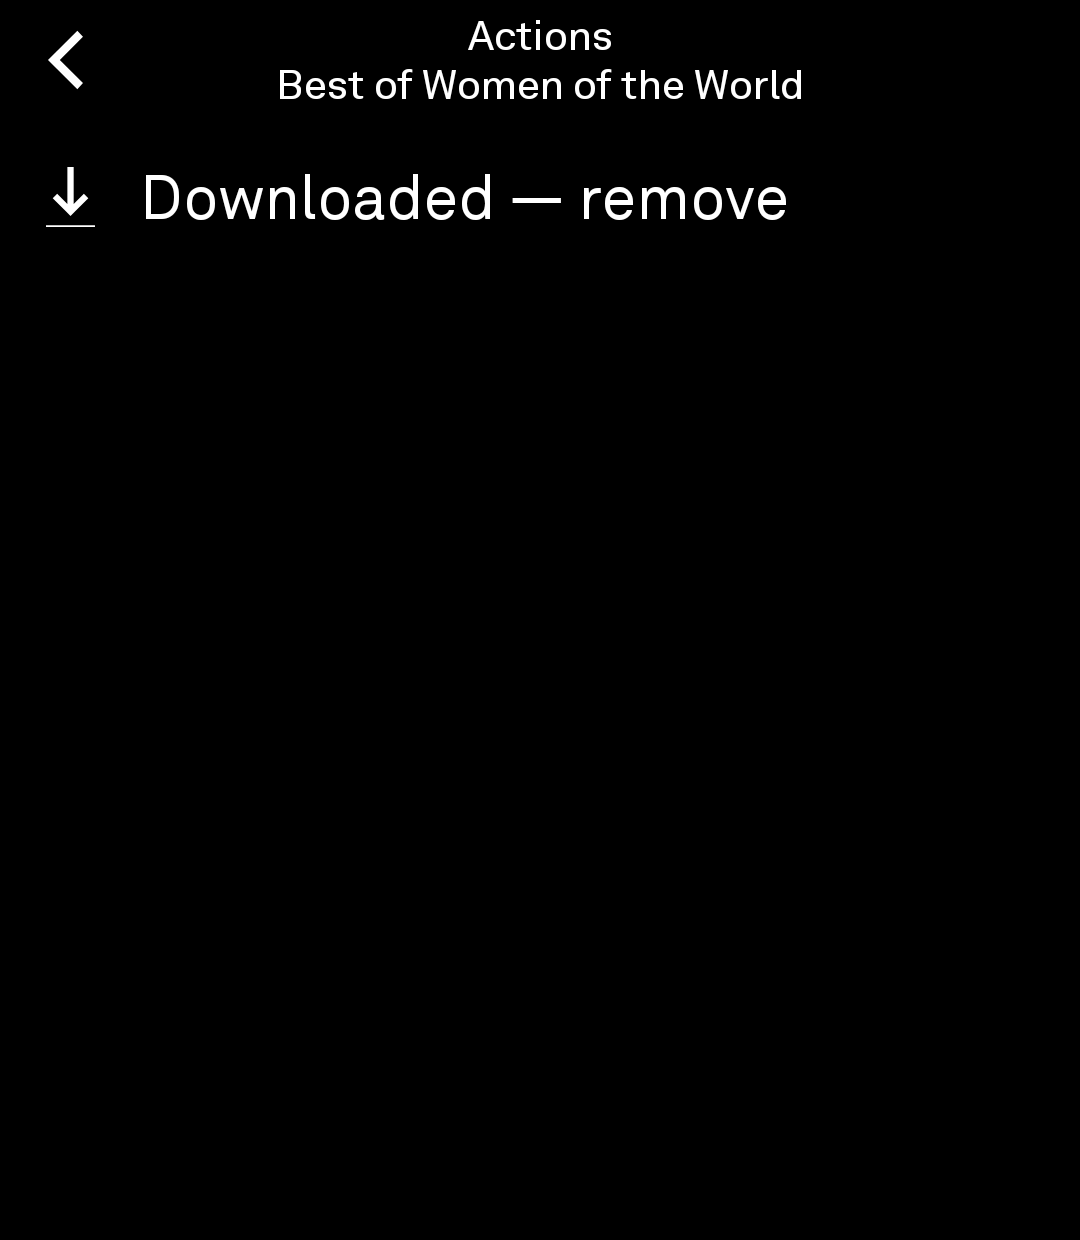
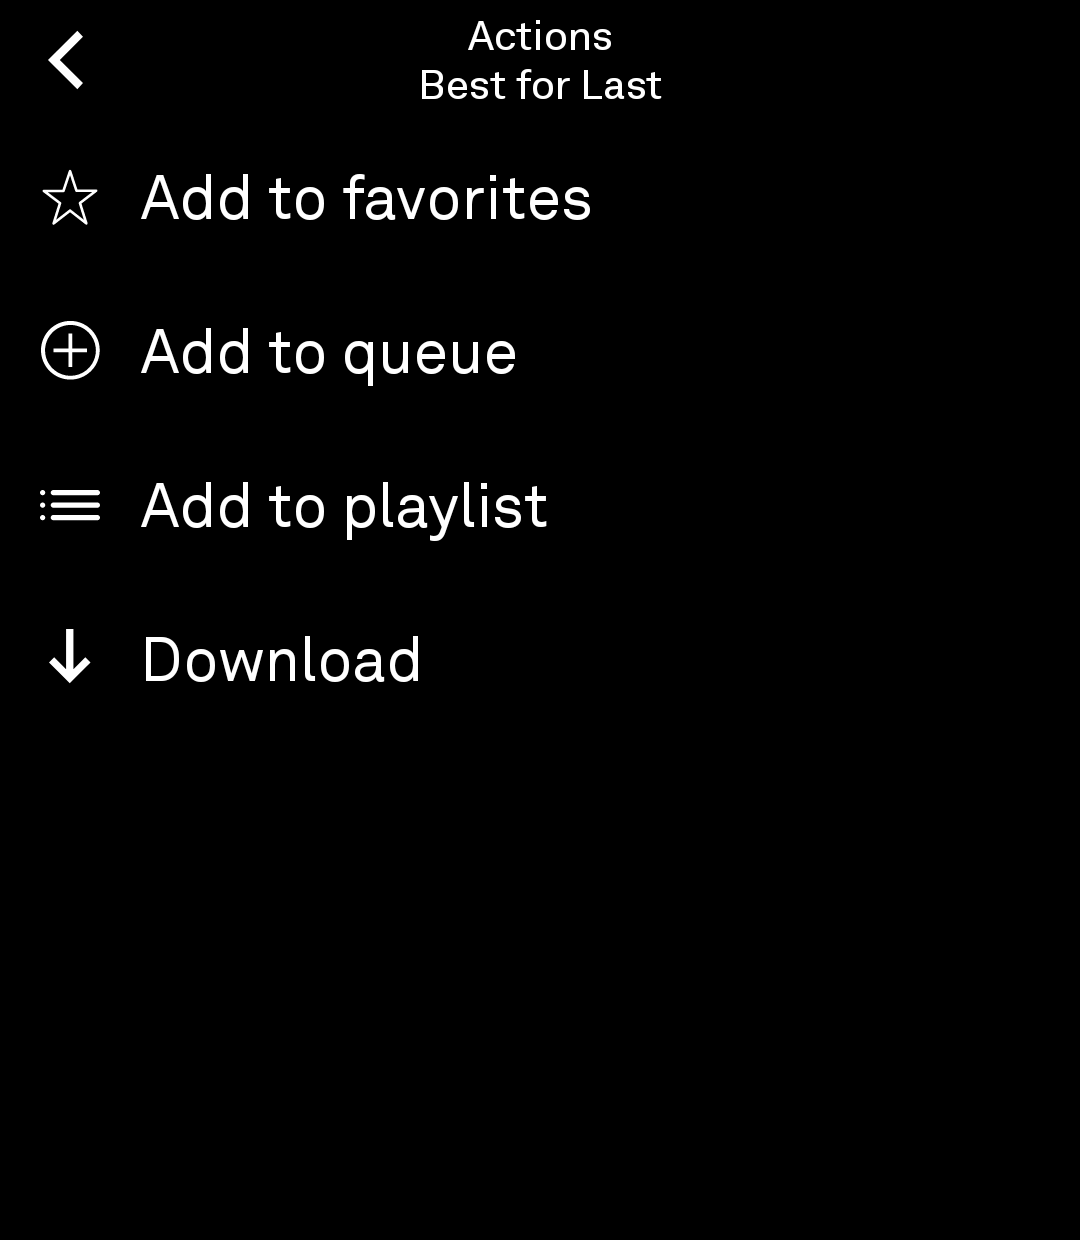
Fix download/sync progress not showing live while the app is in the foreground
Both background @LightJob handlers (downloadTrack, syncPendingMutations)
built their own fresh MusicPlusDatabase instance via
MusicPlusDatabase.create(lightContext) instead of reusing the app's own.
Room's Flow invalidation is tracked per database *instance*, not per
underlying file, so a write through a second instance never notified Flows
the app's already-open instance was serving — every status row these jobs
wrote was correct on disk, but the UI (the download action menu's "tap to
cancel" -> "Downloaded" transition, a synced favorite's "still syncing"
indicator) never advanced until the screen was closed and reopened to
re-query fresh.

Fixed by going through AppGraph.from(lightContext) instead, the same
memoized per-process singleton every screen already calls — this reuses
the app's live database instance whenever the process is actually alive to
observe it, and still builds a fresh one exactly as before on a
cold-process WorkManager run. Also let syncPendingMutations reuse
AppGraph's already-wired libraryRepository/playlistRepository/
syncQueueRepository instead of reconstructing them from raw DAOs.

Found while verifying the new playlist download feature: downloading
completed correctly per a direct DB query, but the action menu stayed on
"Downloading" until the screen was reopened. Confirmed this was the only
other place in the app doing the same thing (the two @LightJob handlers
are the only ones that exist). Verified fixed on-device after the change:
[…]

diff --git a/src/main/kotlin/com/musicplus/app/data/SyncQueueRepository.kt b/src/main/kotlin/com/musicplus/app/data/SyncQueueRepository.kt
@@ -225,36 +225,36 @@ class SyncQueueRepository(
 }
 
 /**
- * The actual sync job — self-contained (builds its own DB/network clients rather
- * than reusing app-process singletons), same convention as DownloadRepository's
- * job, since WorkManager can run this in a fresh process with no warm state.
- * Runs on a periodic schedule (see AppGraph) as the background-app/process-killed
- * backstop, plus an opportunistic one-shot enqueue on every observed reconnect —
- * either way it lands here.
+ * The actual sync job. Runs on a periodic schedule (see AppGraph) as the
+ * background-app/process-killed backstop, plus an opportunistic one-shot
+ * enqueue on every observed reconnect — either way it lands here.
+ *
+ * Goes through `AppGraph.from(lightContext)` rather than building its own
+ * `MusicPlusDatabase`/repositories from scratch — same fix, same reason as
+ * `DownloadRepository`'s job (see its doc): a second `Room` instance against
+ * the same file doesn't notify the app's own live Flows when this job writes
+ * through it, so a synced favorite/playlist edit's "still syncing" indicator
+ * only ever cleared after the screen was reopened, never live. `AppGraph.from`
+ * is a memoized per-process singleton, so this transparently reuses the app's
+ * already-open instance when the process is alive to observe it, and builds
+ * a fresh one exactly as before on a cold-process WorkManager run.
  */
 @LightJob(SyncQueueRepository.JOB_KEY)
 val syncPendingMutations: LightJobHandler = handler@{ lightContext, _ ->
     AppLogger.d("SyncQueueJob", "starting")
-    val serverConfigRepository = ServerConfigRepository(lightContext.dataStore)
+    val graph = AppGraph.from(lightContext)
     // Nothing configured at all — not just "unreachable right now" — so there's
     // genuinely nowhere for a queued mutation to ever sync to.
-    if (serverConfigRepository.serverConfig.first() == null) {
+    if (graph.serverConfigRepository.serverConfig.first() == null) {
         AppLogger.d("SyncQueueJob", "no server configured, exiting")
         return@handler LightJobResult.Success()
     }
 
-    val db = MusicPlusDatabase.create(lightContext)
-    val count = db.pendingMutationDao().observeCount().first()
+    val count = graph.database.pendingMutationDao().observeCount().first()
     AppLogger.d("SyncQueueJob", "pending count = $count")
     if (count == 0) return@handler LightJobResult.Success()
 
-    val apiHolder = SubsonicApiHolder(serverConfigRepository)
-    val connectivity = lightContext.connectivity
-    val libraryRepository = LibraryRepository(apiHolder, db.artistDao(), db.albumDao(), db.trackDao(), connectivity)
-    val playlistRepository = PlaylistRepository(apiHolder, db.playlistDao(), db.trackDao(), connectivity)
-    val syncQueueRepository = SyncQueueRepository(db.pendingMutationDao(), libraryRepository, playlistRepository)
-
-    if (syncQueueRepository.drainQueue()) LightJobResult.Success() else LightJobResult.Retry
+    if (graph.syncQueueRepository.drainQueue()) LightJobResult.Success() else LightJobResult.Retry
 }
 
 /** Registers the periodic backstop schedule — see AppGraph.build(). The opportunistic reconnect-triggered one-shot (also wired there) is what makes this feel near-instant in the common case; this is just the floor for when the app isn't in foreground to observe that. */

diff --git a/src/main/kotlin/com/musicplus/app/data/DownloadRepository.kt b/src/main/kotlin/com/musicplus/app/data/DownloadRepository.kt
@@ -66,9 +66,12 @@ class DownloadRepository(
  * top-level declaration, not nested in an `object` (an earlier draft nested it in
  * `object DownloadJobs`, which the processor would not have discovered).
  *
- * The job is self-contained on purpose (builds its own DB/network clients rather
- * than reusing app-process singletons) since WorkManager can run it in a fresh
- * process with none of the app's in-memory state warm.
+ * Builds its own network client rather than reusing `AppGraph`'s `apiHolder` —
+ * WorkManager can run this in a fresh process with none of the app's in-memory
+ * state warm, so it can't assume one exists. The database is the one exception
+ * (see the `AppGraph.from(...)` call below): reusing the app's singleton when
+ * the process IS already alive is what makes download progress actually show
+ * up live instead of only after the screen is reopened.
  */
 @LightJob(DownloadRepository.JOB_KEY)
 val downloadTrack: LightJobHandler = handler@{ lightContext, input ->
@@ -92,7 +95,20 @@ val downloadTrack: LightJobHandler = handler@{ lightContext, input ->
             return@handler LightJobResult.Error() // not configured — retrying won't help
         }
 
-        val db = MusicPlusDatabase.create(lightContext)
+        // AppGraph.from(...), not MusicPlusDatabase.create(...) directly — the
+        // latter builds a brand-new Room instance every time, and Room's Flow
+        // invalidation is tracked per-*instance*, not per underlying file: a
+        // write through a second instance never notifies Flows the app's own
+        // (already-open) instance is serving, so every download-status row
+        // this job wrote was correct on disk but the in-progress action menu
+        // never advanced past "Downloading" until the screen was reopened and
+        // re-queried fresh. Confirmed on-device, 2026-09-18. AppGraph.from is
+        // the same memoized singleton every screen already calls — reusing it
+        // here means this job shares the app's live instance whenever the
+        // app process is actually alive to observe it, and transparently
+        // builds its own fresh one (same as before) on the rare cold-process
+        // WorkManager run, since AppGraph.from()'s own singleton is per-process.
+        val db = AppGraph.from(lightContext).database
         val track = db.trackDao().getById(songId) ?: run {
             android.util.Log.e(tag, "no track row for songId=$songId")
             AppLogger.e(tag, "no track row for songId=$songId")

diff --git a/README.md b/README.md
@@ -5,6 +5,11 @@ built on Light's own [Light SDK](https://github.com/lightphone/light-sdk), strea
 from a self-hosted [Navidrome](https://www.navidrome.org/) server (or any other
 Subsonic-API-compatible server — Gonic, Airsonic, etc.).
 
+**Fully offline-capable.** Download any song, album, or playlist for offline
+listening — long-press it and choose Download. Favorites, playlist edits, and
+everything else made while offline sync automatically the next time you're
+connected.
+
 <p float="left">
   <img src="screenshots/now-playing.png" width="200" alt="Now Playing screen, showing album art, transport controls, and shuffle/repeat/favorite/lyrics toggles" />
   <img src="screenshots/queue.png" width="200" alt="Full queue screen, with the current track marked and reorder/remove controls on upcoming tracks" />
@@ -16,87 +21,71 @@ Subsonic-API-compatible server — Gonic, Airsonic, etc.).
 
 ### Library
 
-- Browse by **Albums**, **Artists**, or a flat **Songs** list (every track in the
-  library, not just ones already pulled in via a visited album/playlist/search)
+- Browse by **Albums**, **Artists**, or a flat **Songs** list covering every
+  track in the library
 - **Search** across artists, albums, and tracks
-- **Favorites** — star/unstar artists, albums, and tracks independently (an album
-  favorite doesn't imply its tracks are favorited, or vice versa), synced with the
-  server and queued for retry if the write fails offline
-- **Playlists** — create, rename, delete, and reorder tracks within a playlist, all
-  synced with the server
-- Album art, cached locally after first fetch
-- A local Room cache of the library, favorites, and download index so the
-  last-synced view stays usable offline
+- **Favorites** — star/unstar artists, albums, and tracks independently, synced
+  with the server
+- **Playlists** — create, rename, delete, and reorder tracks
+- **Download for offline use** — albums, playlists, and individual songs, via
+  long-press
+- Album art, cached locally
+- Local library cache so the last-synced view works offline
 
 <p float="left">
   <img src="screenshots/home.png" width="200" alt="Main menu: Albums, Artists, Songs, Playlists, Queue, Favorites, Settings" />
   <img src="screenshots/album-detail.png" width="200" alt="Album detail screen with track list and a favorite star on the title" />
 </p>
 
+### Long-press action menu
+
+Long-press any track, album, or playlist for its actions: favorite, add to
+queue, add to playlist, and download. Available from every list in the app —
+Albums, Artists, Songs, Search, Favorites, and Playlists.
+
+<p float="left">
+  <img src="screenshots/action-menu.png" width="200" alt="Long-press action menu on a track, showing Add to favorites, Add to queue, Add to playlist, and Download" />
+</p>
+
 ### Playback
 
-- Full transport controls — play/pause, ±15s skip, next/previous track — via the
-  SDK's detached audio player, so playback survives navigating away from Now
-  Playing or the phone locking
-- **Shuffle** (reshuffles only the upcoming portion of the queue, restoring the
-  original order exactly when turned back off) and **repeat** (off / repeat queue /
-  repeat one track) — shuffle and repeat-one are mutually exclusive, since
-  repeating a single track forever makes an upcoming shuffled order meaningless;
-  repeat-queue and shuffle can run together
-- A visible loading indicator between tapping a track and playback actually
-  starting, instead of the screen appearing to do nothing
-- **The full queue survives an app restart** — song order, current track,
-  position, and shuffle/repeat mode are all restored, without forcing a network
-  fetch until you actually press play
-- **QueueScreen** — the entire queue (not just "up next"), with per-row reorder
-  (▲/▼) and remove, a "clear queue" action that leaves whatever's currently
-  playing alone, and tap-to-jump: tapping any row plays it immediately
-- **Lyrics** — synced (line-by-line, current line highlighted as it plays) or
-  plain text, fetched from the server on demand
-- Works against a plain `http://` server, not just `https://` — Android blocks
-  cleartext streaming outright, so tracks are downloaded then played from a local
-  cache instead of streamed directly when the configured server isn't HTTPS
-- Download tracks for offline listening, queued through the SDK's background work
-  API so downloads survive leaving the screen
+- Full transport controls — play/pause, ±15s skip, next/previous track
+- Playback continues when you navigate away from Now Playing or the phone locks
+- **Shuffle** reshuffles the whole queue, including already-played tracks —
+  turning it back off restores the exact original order
+- **Repeat** — off, repeat queue, or repeat one track (shuffle and repeat-one
+  are mutually exclusive; repeat-queue and shuffle can run together)
+- A loading indicator shows while a track is loading
+- **The queue survives an app restart** — song order, current track, position,
+  and shuffle/repeat mode are all restored
+- **Queue screen** — the entire queue, with per-row reorder and remove, a
+  "clear queue" action that leaves the current track playing, and tap-to-jump
+  to any track
+- **Lyrics** — synced (current line highlighted as it plays) or plain text
+- Works with plain `http://` servers as well as `https://`
 
 ### Everywhere else
 
-- A persistent mini-player (track title/art, play/pause, skip) on every screen
-  except Now Playing itself, tap-through to Now Playing or the full queue
-- A long-press action menu — favorite, add to queue, download — reachable from
-  track rows, the album list, an artist's own album list, and the album detail
-  screen
-- Scroll position is preserved when navigating into a list item and back
-- Server connection (URL, username, password) is configurable in Settings, with
-  support for saving more than one server profile
-- Preferences: show/hide album artwork, haptic feedback, debug logging (writes a
-  local crash/error log independent of Logcat, pullable via adb for field
-  debugging without a live session)
+- A persistent mini-player on every screen except Now Playing, tapping it opens
+  Now Playing or the full queue
+- Scroll position is preserved when navigating into a list and back
+- Server connection is configurable in Settings, with support for saving more
+  than one server
+- Preferences: show/hide album artwork, haptic feedback, debug logging
 
 ## How it's built
 
-- **Kotlin + Jetpack Compose + Coroutines + MVVM**, per the Light SDK's own
-  conventions — see `SETUP.md` for the SDK's own reference notes gathered while
-  building this.
-- **Networking**: [Ktor](https://ktor.io/) with the **CIO** engine (not OkHttp) —
-  many self-hosted Subsonic servers run plain `http://` on a LAN/tailnet, and
-  OkHttp's Android platform integration enforces Android's default
-  cleartext-traffic block with no override available here; CIO's pure-Kotlin
-  engine isn't subject to that check. Talks directly to the open Subsonic REST
-  API (`src/.../data/Subsonic*.kt`), so this also works against any other
-  Subsonic-compatible server, not just Navidrome.
-- **Persistence**: Room (library cache, favorites, download index, play queue,
-  offline sync queue for failed writes) + DataStore (server connection settings,
-  app preferences, playback resume state), both routed through the SDK's own
-  sandboxed storage primitives rather than raw Android APIs.
-- **Playback**: the SDK's `LightAudio` / detached-audio player — a single shared
-  player instance for the tool's lifetime (see `PlaybackRepository` /
-  `PlaybackRepositoryHolder`), so it keeps playing when you leave the Now Playing
-  screen.
-- **Offline-first writes**: a favorite toggle or playlist edit that fails (no
-  server configured, or a transient network error) queues locally and replays
-  automatically once the server's reachable again, backed by both an immediate
-  reconnect listener and a periodic background job.
+- Kotlin + Jetpack Compose + Coroutines + MVVM, per the Light SDK's own
+  conventions — see `SETUP.md` for build details.
+- Networking via [Ktor](https://ktor.io/) against the open Subsonic REST API
+  (`src/.../data/Subsonic*.kt`) — works against any Subsonic-compatible server,
+  not just Navidrome.
+- Persistence via Room (library cache, favorites, download index, play queue,
+  offline sync queue) and DataStore (server connection, preferences, playback
+  resume state).
+- Playback via the SDK's `LightAudio` detached-audio player — a single shared
+  player instance for the app's lifetime (`PlaybackRepository` /
+  `PlaybackRepositoryHolder`).
 
 ## Project layout
 
@@ -122,12 +111,12 @@ src/main/kotlin/com/musicplus/app/
   data/
     Subsonic{Client,Api,Dtos}.kt  Subsonic/Navidrome REST client
     ServerConfigRepository.kt     server URL/credentials (DataStore-backed)
-    SubsonicApiHolder.kt          lazy API-client resolution (see file for why)
+    SubsonicApiHolder.kt          lazy API-client resolution
     Local{Entities,Daos}.kt,
     MusicPlusDatabase.kt          Room cache
     LibraryRepository.kt          cache-then-network library access
     PlaylistRepository.kt         playlist CRUD
-    DownloadRepository.kt         download queue (SDK background work)
+    DownloadRepository.kt         download queue
     PlaybackRepository.kt         wraps the SDK's audio player
     PlaybackStateRepository.kt    persisted resume state (queue index/position/mode)
     LyricsRepository.kt           synced/plain lyrics fetch
